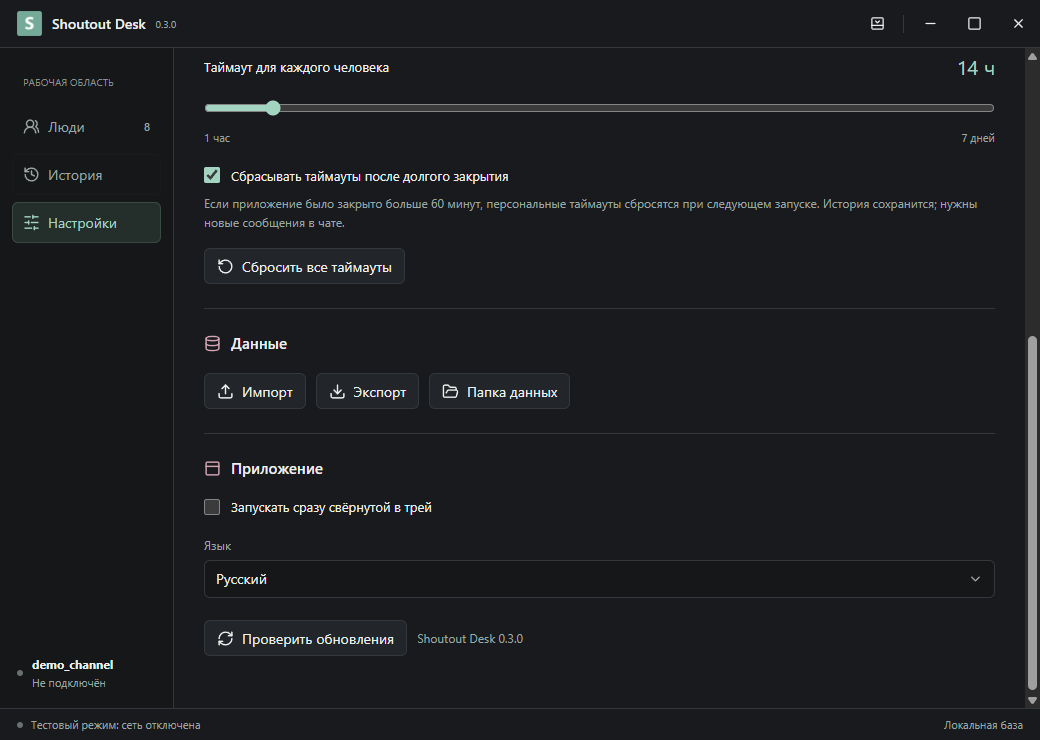
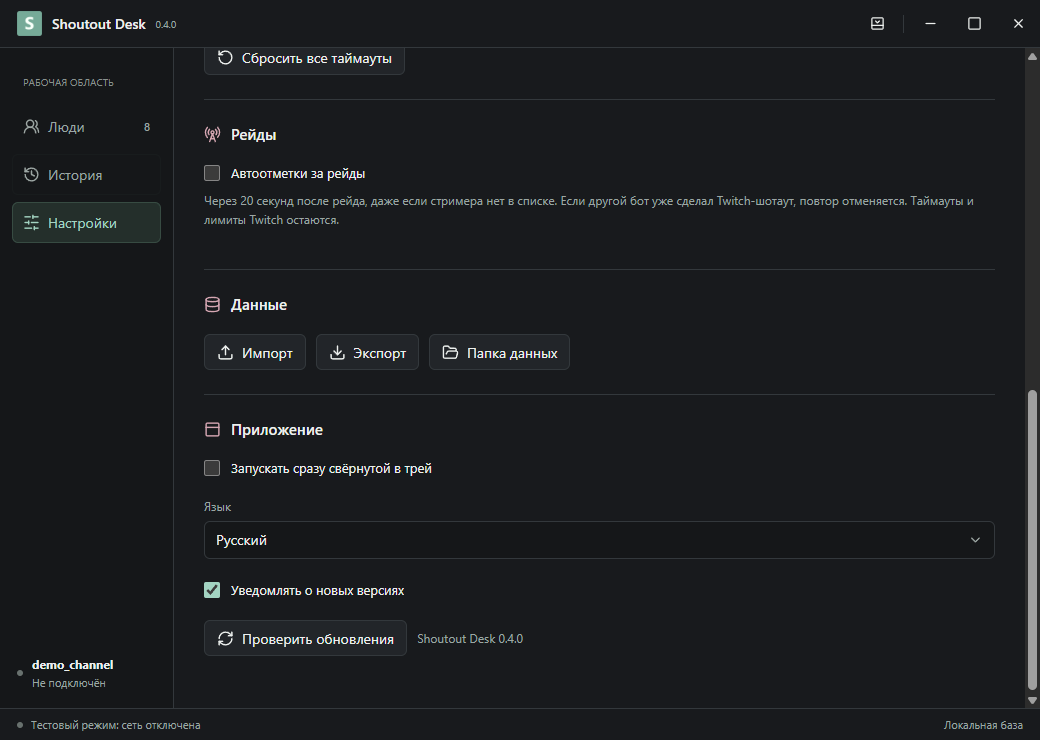
Add delayed raid shoutouts, update notifications and legacy database guides

diff --git a/ui/index.html b/ui/index.html
@@ -9,7 +9,7 @@
 </head>
 <body>
   <header class="titlebar">
-    <div class="brand"><img src="../assets/icon.png" alt=""><span>Shoutout Desk</span><span class="version">0.3.0</span></div>
+    <div class="brand"><img src="../assets/icon.png" alt=""><span>Shoutout Desk</span><span class="version">0.4.0</span></div>
     <div class="window-buttons">
       <button data-window="tray" title="Свернуть в трей" aria-label="Свернуть в трей"><i data-lucide="panel-bottom-close"></i></button>
       <span class="separator"></span>
@@ -29,6 +29,7 @@
       <div class="sidebar-bottom"><span class="status-dot" id="account-dot"></span><div><strong id="account-label">Twitch</strong><small id="account-state">Не подключён</small></div></div>
     </aside>
     <main>
+      <button id="update-banner" class="update-banner" hidden><i data-lucide="download"></i><span>Доступно обновление</span><b id="update-version"></b></button>
       <section id="people" class="view active">
         <div class="heading"><div><div class="eyebrow">АВТОШОТАУТЫ</div><h1>Люди <span id="people-count">0</span></h1></div><label class="switch"><span id="enabled-label">Включены</span><input id="enabled" type="checkbox" checked><span class="switch-track"></span></label></div>
         <form id="add-form" class="add-row"><div class="input-icon"><i data-lucide="at-sign"></i><input id="new-login" aria-label="Добавить ник" placeholder="Ник или ссылка Twitch" autocomplete="off" spellcheck="false" maxlength="150"></div><button class="primary" type="submit"><i data-lucide="plus"></i>Добавить</button></form>
@@ -60,8 +61,9 @@
           <label class="check-row spaced"><input id="reset-long" type="checkbox"><span>Сбрасывать таймауты после долгого закрытия</span></label><p class="setting-help">Если приложение было закрыто больше 60 минут, персональные таймауты сбросятся при следующем запуске. История сохранится; нужны новые сообщения в чате.</p>
           <button id="reset-cooldowns"><i data-lucide="rotate-ccw"></i>Сбросить все таймауты</button>
         </div>
+        <div class="setting-section"><h2><i data-lucide="radio-tower"></i>Рейды</h2><label class="check-row"><input id="raid-shoutouts" type="checkbox"><span>Автоотметки за рейды</span></label><p class="setting-help">Через 20 секунд после рейда, даже если стримера нет в списке. Если другой бот уже сделал Twitch-шотаут, повтор отменяется. Таймауты и лимиты Twitch остаются.</p></div>
         <div class="setting-section"><h2><i data-lucide="database"></i>Данные</h2><div class="action-row"><button id="import-data"><i data-lucide="upload"></i>Импорт</button><button id="export-data"><i data-lucide="download"></i>Экспорт</button><button id="open-folder"><i data-lucide="folder-open"></i>Папка данных</button></div></div>
-        <div class="setting-section"><h2><i data-lucide="panel-top"></i>Приложение</h2><label class="check-row"><input id="start-tray" type="checkbox"><span>Запускать сразу свёрнутой в трей</span></label><label class="field-label spaced" for="language">Язык</label><select id="language"><option value="uk-UA">Українська</option><option value="ru-RU">Русский</option><option value="en-US">English</option></select><div class="action-row spaced"><button id="check-update"><i data-lucide="refresh-cw"></i>Проверить обновления</button><span class="subtle" id="app-version"></span></div></div>
+        <div class="setting-section"><h2><i data-lucide="panel-top"></i>Приложение</h2><label class="check-row"><input id="start-tray" type="checkbox"><span>Запускать сразу свёрнутой в трей</span></label><label class="field-label spaced" for="language">Язык</label><select id="language"><option value="uk-UA">Українська</option><option value="ru-RU">Русский</option><option value="en-US">English</option></select><label class="check-row spaced"><input id="auto-updates" type="checkbox"><span>Уведомлять о новых версиях</span></label><div class="action-row spaced"><button id="check-update"><i data-lucide="refresh-cw"></i>Проверить обновления</button><span class="subtle" id="app-version"></span></div></div>
       </section>
     </main>
   </div>

diff --git a/ui/renderer.js b/ui/renderer.js
@@ -51,6 +51,7 @@ function renderHistory(){
     const tr=node('tr');tr.dataset.login=row.login;
     tr.append(node('td',stamp(row.finished_at||row.created_at)),node('td',row.login));
     const result=node('td',labels[row.status]||row.status,'result-'+row.status);
+    if(row.trigger==='raid')result.append(node('small','Рейд'));
     if(row.detail)result.append(node('small',row.detail));
     const action=node('td',null,'history-action');
     if(!active.has(row.login.toLowerCase())){
@@ -74,6 +75,10 @@ function render(next){
   state=next;$('enabled').checked=state.prefs.enabled;$('enabled-label').textContent=state.prefs.enabled?'Включены':'На паузе';
   $('start-tray').checked=state.prefs.startInTray;
   $('reset-long').checked=state.prefs.resetAfterLongClose;
+  $('raid-shoutouts').checked=!!state.prefs.raidShoutouts;
+  $('auto-updates').checked=state.prefs.autoUpdates!==false;
+  $('update-banner').hidden=!state.update?.available;
+  $('update-version').textContent=state.update?.version||'';
   $('language').value=state.prefs.language;window.deskI18n.setLanguage(state.prefs.language);
   $('app-version').textContent='Shoutout Desk '+state.version;document.querySelector('.version').textContent=state.version;
   if(document.activeElement!==$('cooldown'))$('cooldown').value=state.prefs.cooldownHours;
@@ -137,6 +142,9 @@ $('history-search').oninput=renderHistory;$('history-status').onchange=renderHis
 $('enabled').onchange=()=>void cmd('prefs',{enabled:$('enabled').checked}).catch(()=>{});
 $('start-tray').onchange=()=>void cmd('prefs',{startInTray:$('start-tray').checked}).catch(()=>{});
 $('reset-long').onchange=()=>void cmd('prefs',{resetAfterLongClose:$('reset-long').checked}).catch(()=>{});
+$('raid-shoutouts').onchange=()=>void cmd('prefs',{raidShoutouts:$('raid-shoutouts').checked}).catch(()=>{});
+$('auto-updates').onchange=()=>void cmd('prefs',{autoUpdates:$('auto-updates').checked}).catch(()=>{});
+$('update-banner').onclick=()=>void cmd('open-update').catch(()=>{});
 $('language').onchange=()=>void cmd('prefs',{language:$('language').value}).catch(()=>{});
 $('reset-cooldowns').onclick=()=>void cmd('reset-cooldowns').catch(()=>{});
 $('export-data').onclick=()=>void cmd('export').then(r=>{if(!r.cancelled)toast('Экспорт сохранён. Токенов в файле нет.');}).catch(()=>{});

diff --git a/ui/i18n.js b/ui/i18n.js
@@ -1,5 +1,8 @@
 (() => {
   const rows = [
+    ['Рейды','Raids','Рейди'],['Рейд','Raid','Рейд'],['Автоотметки за рейды','Automatic raid shoutouts','Автовідмітки за рейди'],
+    ['Через 20 секунд после рейда, даже если стримера нет в списке. Если другой бот уже сделал Twitch-шотаут, повтор отменяется. Таймауты и лимиты Twitch остаются.','Waits 20 seconds after a raid, including streamers outside your list. An observed Twitch shoutout from another bot cancels the duplicate. Cooldowns and Twitch limits still apply.','Через 20 секунд після рейду, навіть якщо стримера немає у списку. Якщо інший бот уже зробив Twitch-відмітку, повтор скасовується. Таймаути й ліміти Twitch залишаються.'],
+    ['Уведомлять о новых версиях','Notify about new versions','Сповіщати про нові версії'],['Доступно обновление','Update available','Доступне оновлення'],
     ['Люди','People','Люди'],['История','History','Історія'],['Настройки','Settings','Налаштування'],['Подключение','Connection','Підключення'],
     ['РАБОЧАЯ ОБЛАСТЬ','WORKSPACE','РОБОЧИЙ ПРОСТІР'],['АВТОШОТАУТЫ','AUTO SHOUTOUTS','АВТОВІДМІТКИ'],['ЖУРНАЛ','ACTIVITY','ЖУРНАЛ'],['ПАРАМЕТРЫ','PREFERENCES','ПАРАМЕТРИ'],
     ['Добавить','Add','Додати'],['Ник или ссылка Twitch','Nickname or Twitch URL','Нік або посилання Twitch'],['Добавить ник','Add nickname','Додати нік'],['Поиск по нику','Search nickname','Пошук за ніком'],

diff --git a/ui/style.css b/ui/style.css
@@ -17,3 +17,5 @@ select option:checked{background:#314c40;color:#dcf7eb}
 select option::checkmark{color:var(--mint)}
 .spaced{margin-top:22px}.setting-help{font-size:12px;line-height:1.6;color:var(--muted);margin:10px 0 16px}
 .nav span{min-width:0;overflow-wrap:anywhere;text-align:left}.nav{height:auto;min-height:40px}
+ .update-banner{width:100%;margin-bottom:16px;border-color:#79bba4;color:#b4e6d4;justify-content:flex-start;gap:8px;flex-wrap:wrap;}
+ .update-banner[hidden]{display:none;}

diff --git a/README.md b/README.md
@@ -6,12 +6,15 @@ A small Windows app that sends a Twitch shoutout when a person from your list wr
 
 **[Download and install](https://github.com/foolka/shoutout-desk/releases/latest)**: Windows EXE + ZIP.
 
+**Already using an older version? [Read this before updating: keep or import your local database](#legacy-import).**
+
 ![Shoutout Desk](docs/screenshots/en-US/people.png)
 
 Screenshots use fictional accounts. No personal profiles are included.
 
 ## Contents
 
+- [Import a database from the first versions](#legacy-import)
 - [Download and install](#install)
 - [Setup](#setup)
 - [Settings and controls](#settings)
@@ -24,6 +27,19 @@ Screenshots use fictional accounts. No personal profiles are included.
 ## Download and install
 
 Windows 10/11 x64. Download the **setup.exe** from Releases, close Shoutout Desk, and run it. Installation is per Windows user and does not need administrator rights. Start it from the new Start menu shortcut. The installer does not start a stream or launch the app automatically.
+
+<a id="legacy-import"></a>
+## Import a database from the first versions
+
+A normal update on the same Windows profile preserves your data automatically: close the program and install over the old version. Import is only needed when switching profiles/computers or moving between the desktop app and OBS plugin.
+
+1. In the old program, open **Settings > Data folder**. Export JSON if that button is available; otherwise find **`shoutouts.sqlite`**. The desktop app normally uses `%APPDATA%\Shoutout Desk`; portable mode uses `ShoutoutDesk-data` next to its EXE.
+2. Close the old app/OBS normally, then back up the **whole data folder**. Copying an open SQLite database without its WAL can lose recent records.
+3. Open the new version and connect the **same Twitch broadcaster account**.
+4. Choose **Settings > Import** and select the JSON export or **`shoutouts.sqlite`**, including databases from the earliest releases. Do not select `connection.json`, an authorization file, or the EXE.
+5. People, history and cooldowns are **merged**, not replaced; importing again does not duplicate the same history. Pending actions are not replayed. Automation pauses after import: check the result and enable it when ready.
+
+Authorization is not imported. Keep the backup until you verify the result. The new database uses schema 3; to downgrade, restore a backup made before the upgrade instead of opening the migrated database with an old version.
 
 <a id="setup"></a>
 ## Setup
@@ -40,6 +56,8 @@ Run **one active instance per channel**: either this app or the OBS plugin. Sepa
 
 | Control | Action |
 | --- | --- |
+| Shout out incoming raiders | Off by default. Queue incoming raiders for at least 20 seconds; observe other bots and respect cooldowns. See below. |
+| Notify about new versions | On by default. Background GitHub checks and a release banner; no automatic installation. |
 | Enabled | Pause/resume automation for this run. It is enabled again on every launch; this does not reset personal cooldowns. |
 | Cooldown, 1–168 hours | Minimum interval per person in this channel. Default: 24 h. Expiry alone sends nothing: a new chat message is required. |
 | Reset after long shutdown | Off by default. If closed for strictly more than 60 minutes, reset personal cooldowns on next launch. History remains. Crash recovery includes a 30-second heartbeat allowance. |
@@ -62,6 +80,18 @@ Run **one active instance per channel**: either this app or the OBS plugin. Sepa
 **Outcomes:** Sent = confirmed by Twitch; Queued/Sending = pending; Skipped = cancelled or no longer eligible; Error = definite rejection; Unconfirmed = outcome unknown, so automatic resend is blocked for the personal cooldown. There is a 10-second settling window for other bots' events and a 125-second local gap between channel shoutouts. No stream is started by this software.
 
 <a id="updates"></a>
+### Incoming raids
+
+**Shout out incoming raiders** is off by default. When enabled, an incoming raid during a live stream queues its streamer for **at least 20 seconds**, even if they are not in your saved list. It does not add them to the list. Personal cooldowns, the 125-second channel gap and Twitch limits can postpone or prevent sending.
+
+An actual Twitch shoutout observed from another bot during the wait cancels the duplicate. A plain chat message or a text-only `!so` command is not a Twitch shoutout event. This protection requires a working connection; independent bots cannot be coordinated with an absolute guarantee.
+
+### Update notifications
+
+**Notify about new versions** is on by default. The first background check starts about 15 seconds after launch; successful checks are at most once per day. Offline failures remain quiet and can retry later. A new stable release displays a banner; the desktop app can also show a Windows notification. Nothing is downloaded or installed automatically. Manual **Check for updates** works even with background checks disabled.
+
+**Older releases cannot receive this new automatic notification feature remotely. Update once manually**, then future versions can be announced. Checks contact the public GitHub Releases API and never send Twitch credentials.
+
 ## Updates and portable mode
 
 Use **Check for updates**, exit the app and run the new installer over the old version. Lists, history and protected sign-in stay in `%APPDATA%\Shoutout Desk`.

diff --git a/CHANGELOG.md b/CHANGELOG.md
@@ -1,5 +1,14 @@
 # Changelog
 
+## 0.4.0 - 2026-09-30
+
+- Optional incoming-raid shoutouts after at least 20 seconds, including raiders outside the saved list.
+- Observed Twitch shoutouts from other bots cancel queued duplicates; personal cooldowns and Twitch limits still apply.
+- Automatic, non-blocking update checks with a visible release banner. No automatic downloads or installation.
+- Import and migrate the earliest local SQLite databases, preserving people, history and cooldowns.
+- Prominent English, Ukrainian and Russian legacy-import instructions; refreshed localized screenshots.
+- Database schema 3: version backups are created before migration. Use a backup when downgrading.
+
 ## 0.3.0 - 2026-09-28
 
 - First standalone public repository and per-user Windows EXE installer.
